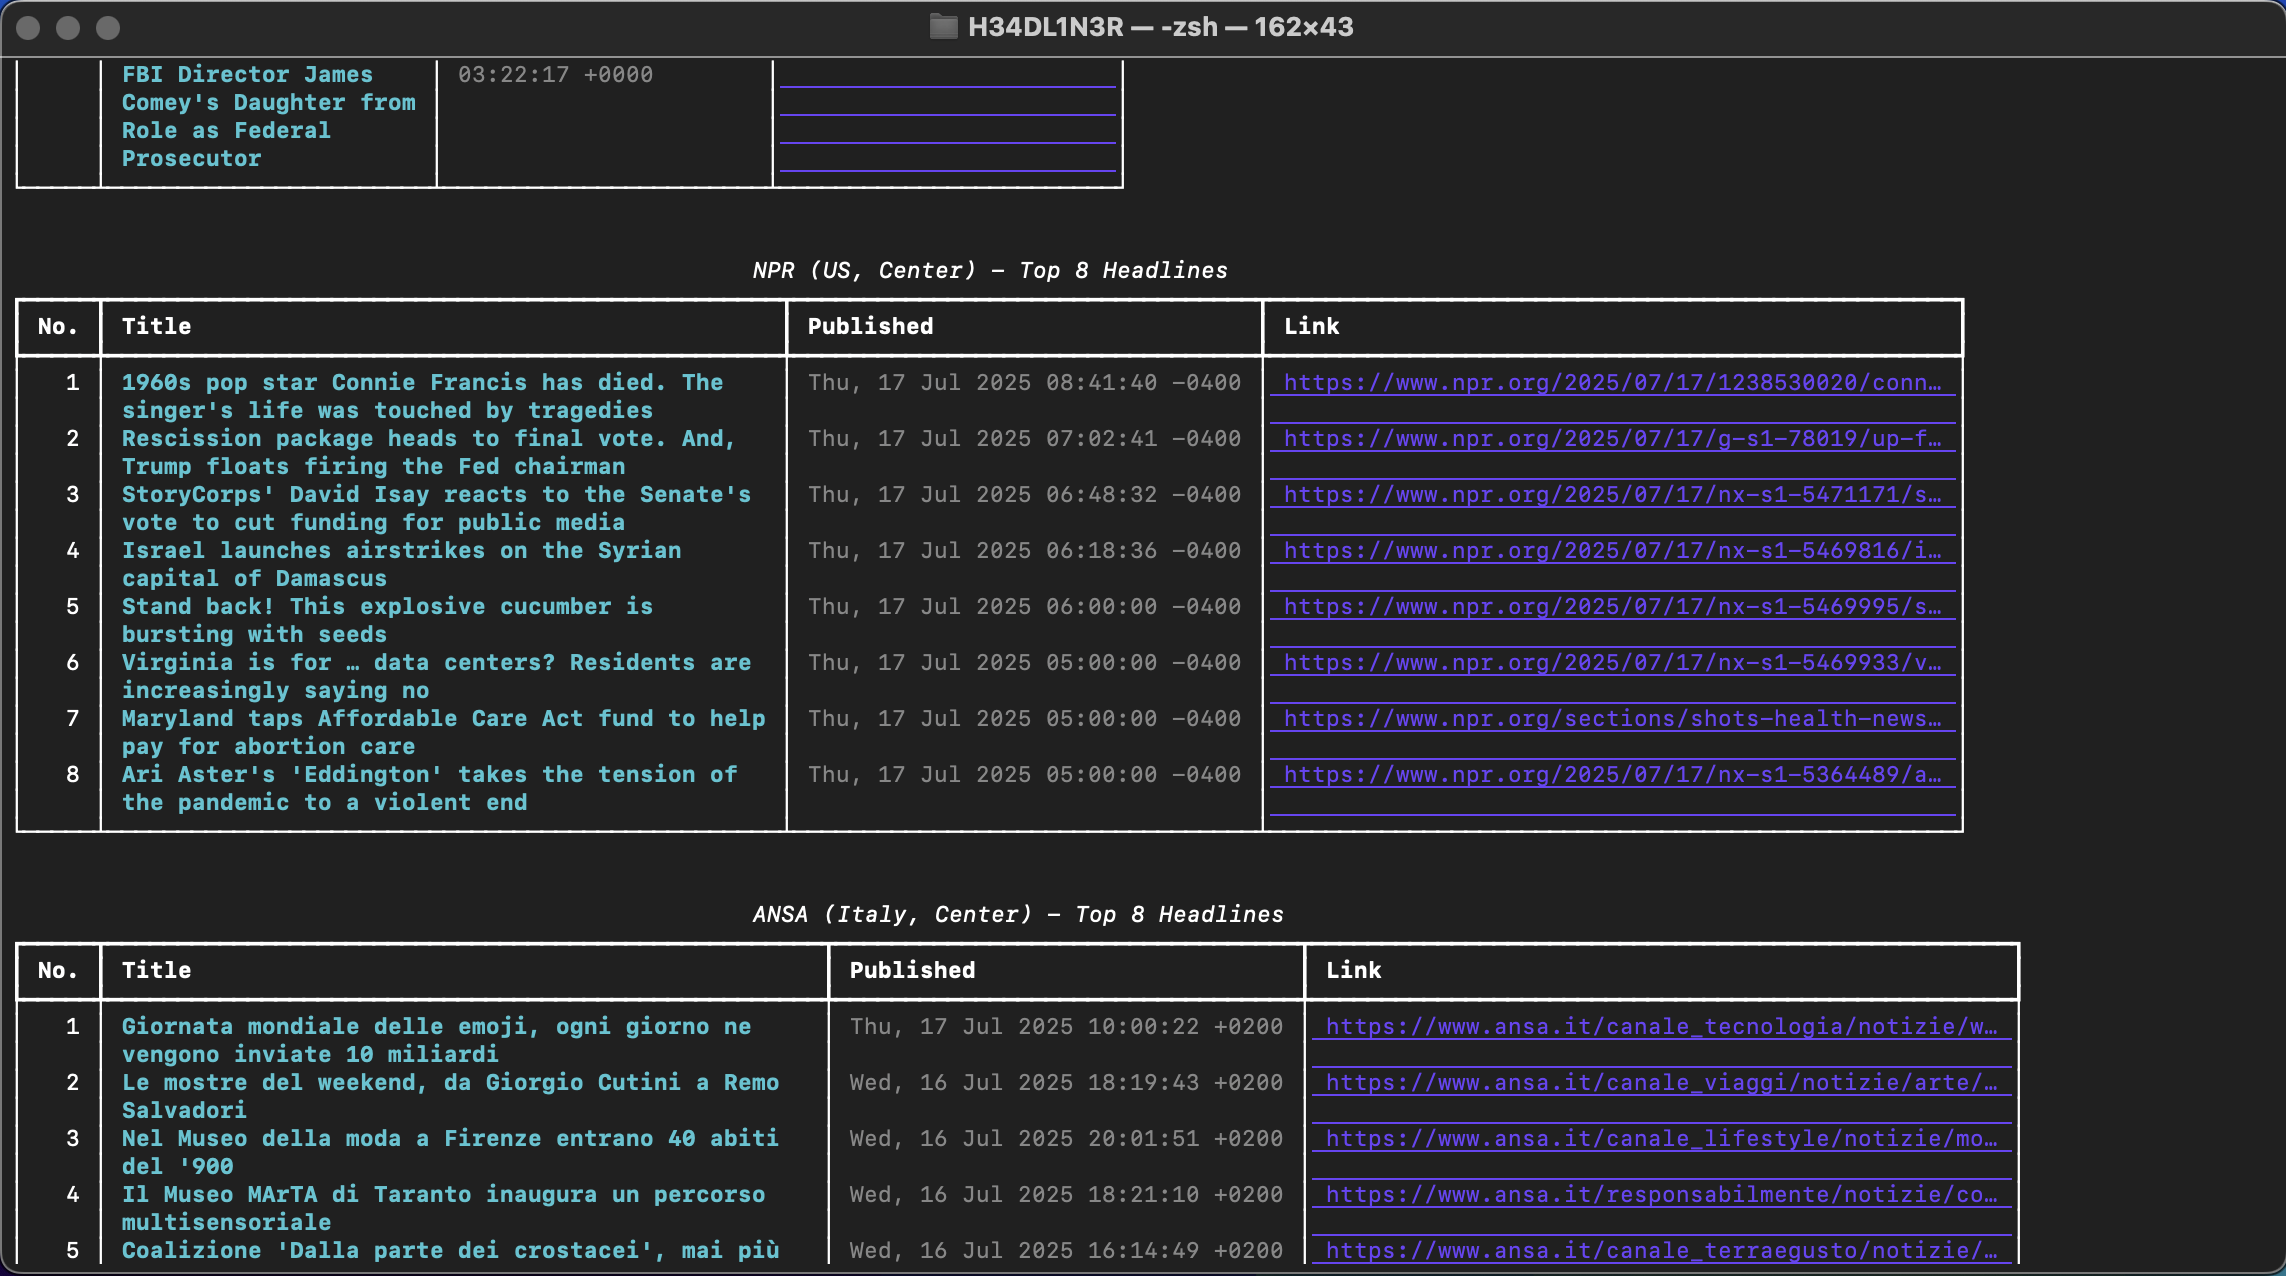
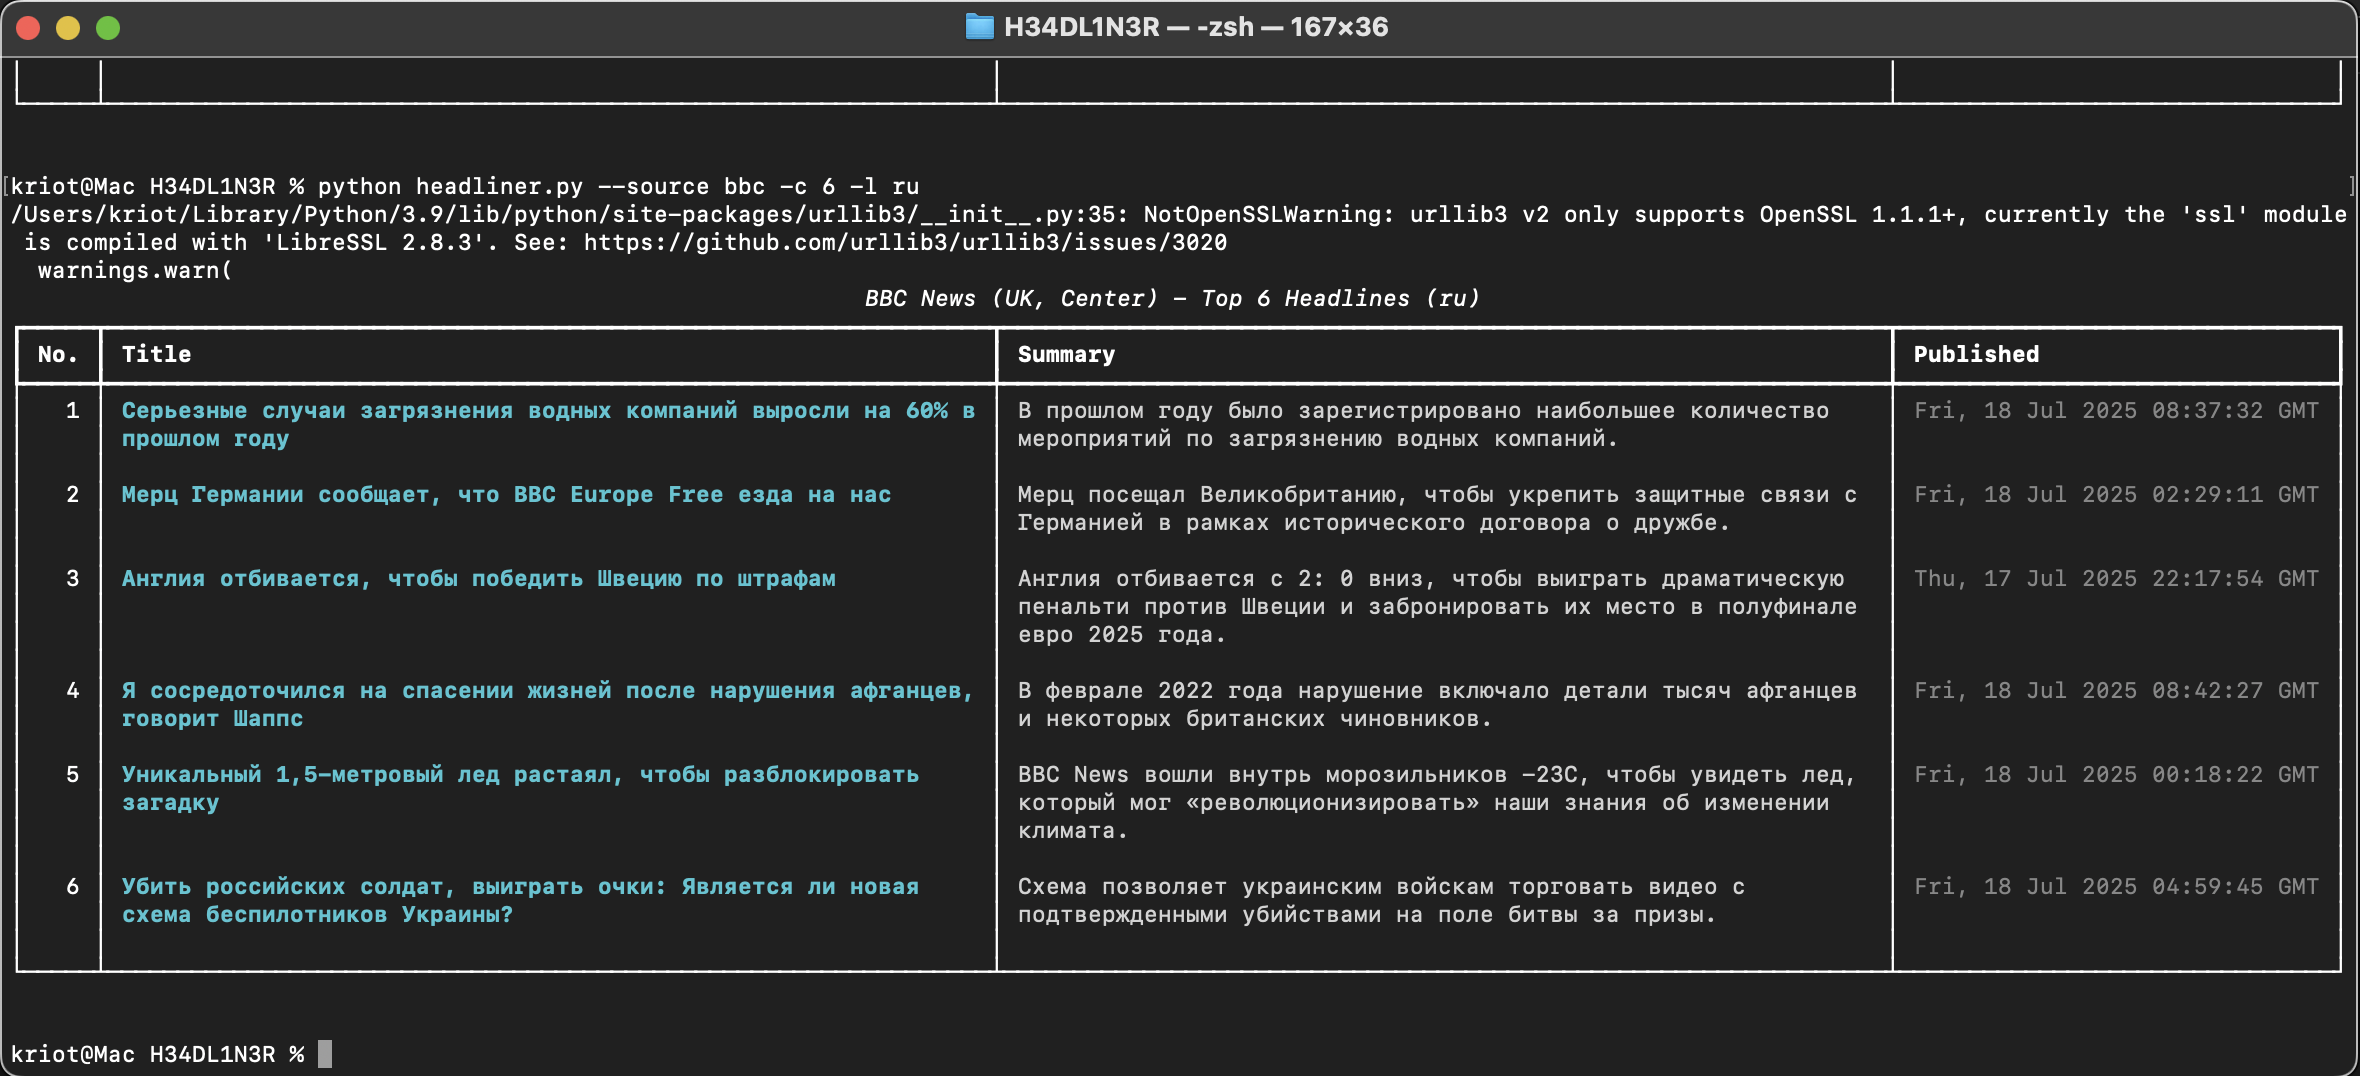
Removed Dep. Links
Better readability, minor other improvements.

Changed region(s): [[0.0, 0.0, 1.0, 1.0]]

diff --git a/headliner.py b/headliner.py
@@ -82,7 +82,6 @@ def get_headlines_from_feeds(selected_sources, count, lang=None):
         table.add_column("Title", style="bold cyan")
         table.add_column("Summary", style="white")
         table.add_column("Published", style="dim")
-        table.add_column("Link", style="blue underline")
 
         for i, entry in enumerate(feed.entries[:count], 1):
             title = entry.get('title', 'N/A')
@@ -93,7 +92,8 @@ def get_headlines_from_feeds(selected_sources, count, lang=None):
                 summary = translate_text(summary, lang)
 
             published = entry.get('published', 'N/A')
-            table.add_row(str(i), title, summary, published, entry.link)
+            table.add_row(str(i), title, summary, published)
+            table.add_row("", "", "", "")  # Empty row as separator
 
         console.print(table)
         console.print("\n")
